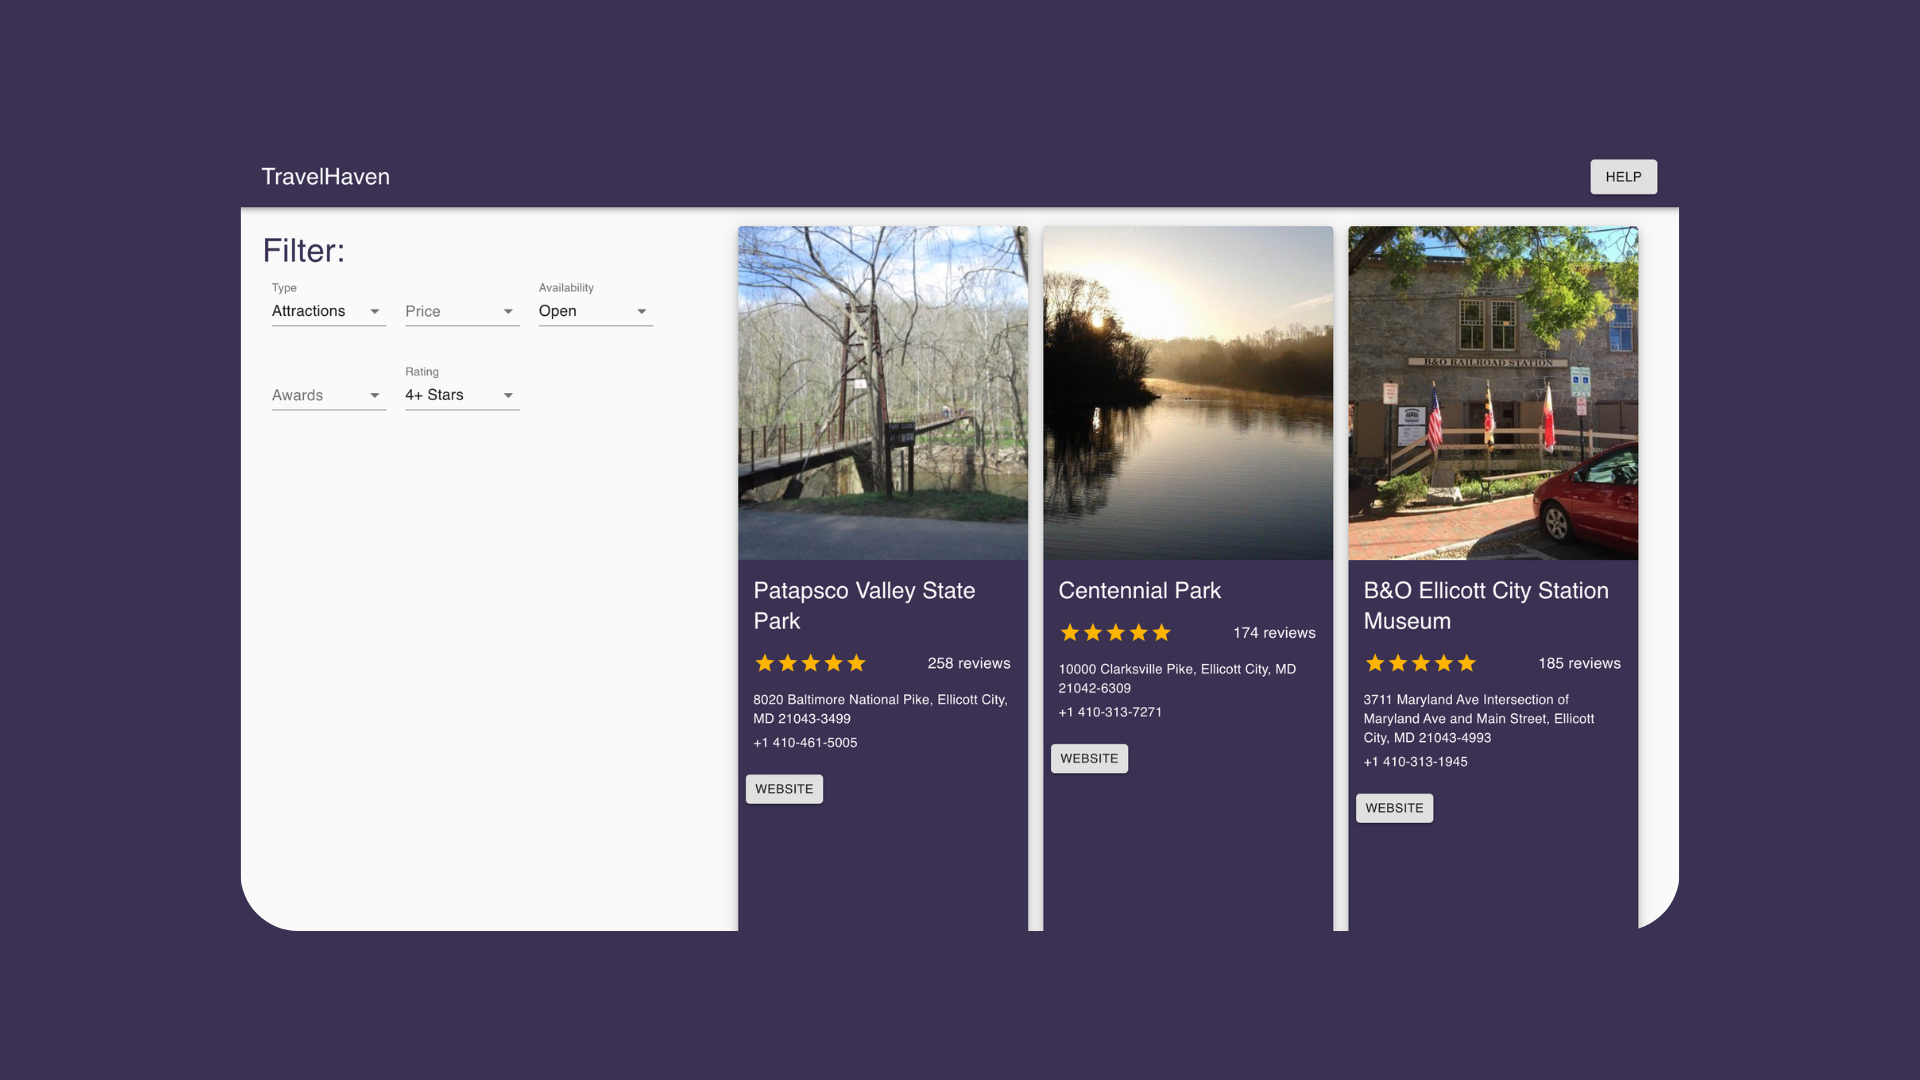
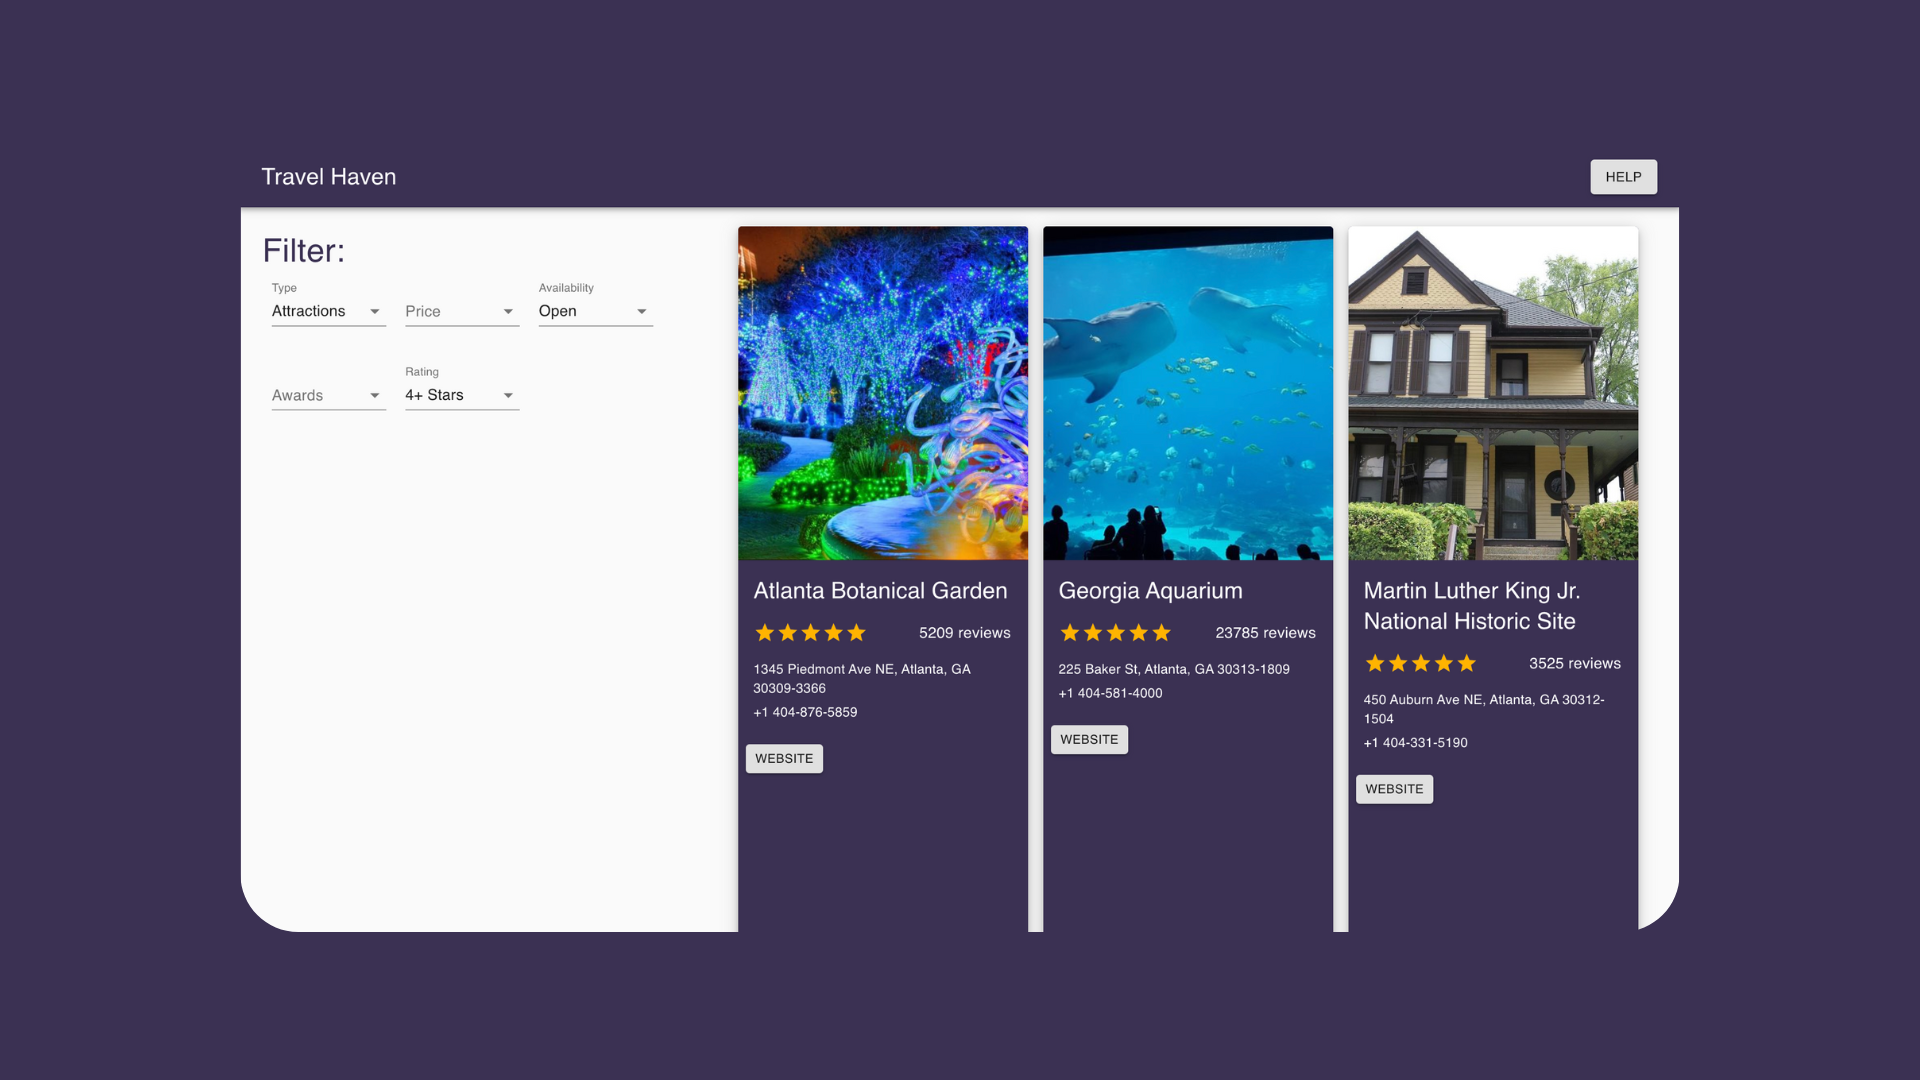
added rhythm report project

Changed region(s): [[0.375, 0.1833, 0.875, 0.7639], [0.6875, 0.6417, 0.8438, 0.7639], [0.1562, 0.1528, 0.2188, 0.1833]]

diff --git a/index.html b/index.html
@@ -90,22 +90,43 @@
     
     <section id="projects">
         <h1 class="title">Projects</h1>
+
         <div class="row row-cols-1 row-cols-sm-2 row-cols-md-3 g-3">
+
           <div class="col">
             <div class="card shadow-sm">
-              <img class="card-img-top" src="./assets/collegescheduler.png" width="100%" height="225">
+              <img class="card-img-top" src="./assets/travel.png" width="100%" height="225">
               <div class="card-body">
-                <h2>College Scheduler</h2>
-                <p class="card-text">An Android app that helps college students stay organized by allowing them to track their classes, assignments, exams, and more.</p>
-                <medium class="text-body-secondary">Java, XML, SQLite, Android Studio</medium>
+                <h2>Travel Haven</h2>
+                <p class="card-text">A React-based travel application that recommends tourists attractions in Atlanta, GA based on parameters such as rating & price.</p>
+                <medium class="text-body-secondary">React, JavaScript, CSS</medium>
                 <p class="card-text"> </p>
                 <div class="d-flex justify-content-between align-items-center">
                   <div class="btn-group">
-                    <a href="https://appetize.io/app/xmf56i7myll72arbu2d6fqrw7y?device=pixel7&osVersion=13.0" class="btn btn-sm btn-outline-secondary" target="_blank">Live Demo</a>
-                    <a href="https://github.com/deborahola/College-Scheduler-App" class="btn btn-sm btn-outline-secondary" target="_blank">Github</a>
+                    <a href="https://deborahola.github.io/travel-app/" class="btn btn-sm btn-outline-secondary" target="_blank">Live Demo</a>
+                    <a href="https://github.com/deborahola/travel-app" class="btn btn-sm btn-outline-secondary" target="_blank">Github</a>
                   </div>
                   <div class="project-type">
-                    <small class="text-body-secondary">Personal Project</small>
+                    <!-- <small class="text-body-secondary">Team Project</small> -->
+                  </div>
+                </div>
+              </div>
+            </div>
+          </div>
+          <div class="col">
+            <div class="card shadow-sm">
+              <img class="card-img-top" src="./assets/rhythm.png" width="100%" height="225">
+              <div class="card-body">
+                <h2>Rhythm Report</h2>
+                <p class="card-text">A year-round music insights app inspired by Spotify Wrapped that allows users to analyze their listening habits and music tastes.</p>
+                <medium class="text-body-secondary">Java, Spotify API, Android Studio, Firebase</medium>
+                <p class="card-text"> </p>
+                <div class="d-flex justify-content-between align-items-center">
+                  <div class="btn-group">
+                    <a href="https://github.com/deborahola/RhythmReport" class="btn btn-sm btn-outline-secondary" target="_blank">Github</a>
+                  </div>
+                  <div class="project-type">
+                    <!-- <small class="text-body-secondary">Team Project</small> -->
                   </div>
                 </div>
               </div>
@@ -126,7 +147,27 @@
                     <a href="https://github.com/deborahola/News-Corner" class="btn btn-sm btn-outline-secondary" target="_blank">Github</a>
                   </div>
                   <div class="project-type">
-                    <small class="text-body-secondary">Personal Project</small>
+                    <!-- <small class="text-body-secondary">Personal Project</small> -->
+                  </div>
+                </div>
+              </div>
+            </div>
+          </div>
+          <div class="col">
+            <div class="card shadow-sm">
+              <img class="card-img-top" src="./assets/collegescheduler.png" width="100%" height="225">
+              <div class="card-body">
+                <h2>College Scheduler</h2>
+                <p class="card-text">An Android app that helps college students stay organized by allowing them to track their classes, assignments, exams, and more.</p>
+                <medium class="text-body-secondary">Java, XML, SQLite, Android Studio</medium>
+                <p class="card-text"> </p>
+                <div class="d-flex justify-content-between align-items-center">
+                  <div class="btn-group">
+                    <a href="https://appetize.io/app/xmf56i7myll72arbu2d6fqrw7y?device=pixel7&osVersion=13.0" class="btn btn-sm btn-outline-secondary" target="_blank">Live Demo</a>
+                    <a href="https://github.com/deborahola/College-Scheduler-App" class="btn btn-sm btn-outline-secondary" target="_blank">Github</a>
+                  </div>
+                  <div class="project-type">
+                    <!-- <small class="text-body-secondary">Personal Project</small> -->
                   </div>
                 </div>
               </div>
@@ -147,26 +188,7 @@
                     <a href="https://github.com/deborahola/Infectious-Diseases-Awareness-Website" class="btn btn-sm btn-outline-secondary" target="_blank">Github</a>
                   </div>
                   <div class="project-type">
-                    <small class="text-body-secondary">Team Project</small>
-                  </div>
-                </div>
-              </div>
-            </div>
-          </div>
-          <div class="col">
-            <div class="card shadow-sm">
-              <img class="card-img-top" src="./assets/travel.png" width="100%" height="225">
-              <div class="card-body">
-                <h2>TravelHaven</h2>
-                <p class="card-text">A React-based travel application that recommends tourists attractions in Maryland based on parameters such as rating & price.</p>
-                <medium class="text-body-secondary">React, JavaScript, CSS</medium>
-                <p class="card-text"> </p>
-                <div class="d-flex justify-content-between align-items-center">
-                  <div class="btn-group">
-                    <a href="https://ssaniya-dev.github.io/fbla-travelapp/" class="btn btn-sm btn-outline-secondary" target="_blank">Live Demo</a>
-                  </div>
-                  <div class="project-type">
-                    <small class="text-body-secondary">Team Project</small>
+                    <!-- <small class="text-body-secondary">Team Project</small> -->
                   </div>
                 </div>
               </div>
@@ -181,7 +203,7 @@
               </svg> -->
               <div class="card-body">
                 <h2>Developer Portfolio</h2>
-                <p class="card-text">A responsive, user-friendly website displaying resumé information for Deborah.</p>
+                <p class="card-text">A responsive, user-friendly website displaying resumé information for Debbie.</p>
                 <medium class="text-body-secondary">HTML, CSS, JavaScript, Bootstrap</medium>
                 <p class="card-text"> </p>
                 <div class="d-flex justify-content-between align-items-center">
@@ -231,7 +253,7 @@
 					<img src="./assets/ftflogo.png" alt="FinTech Focus Logo">
 					<div class="text">
 						<h4>FinTech Focus Fellow</h4>
-						<p>Giant Machines • 2022</p>
+						<p>Giant Machines / Upperline Code • 2022</p>
 					</div>
 				</div>
 
